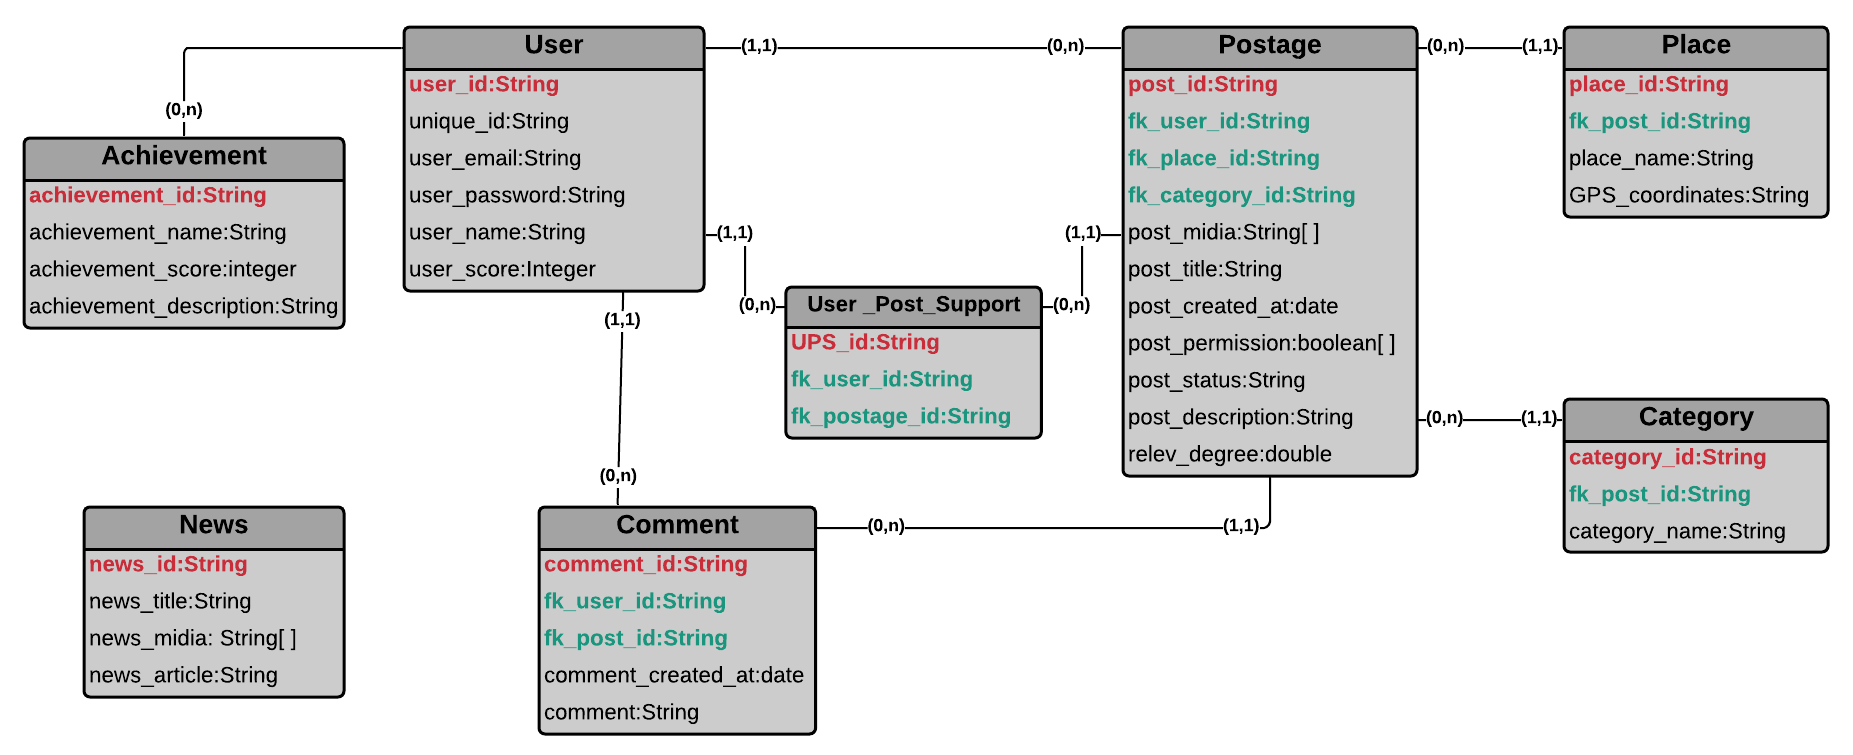
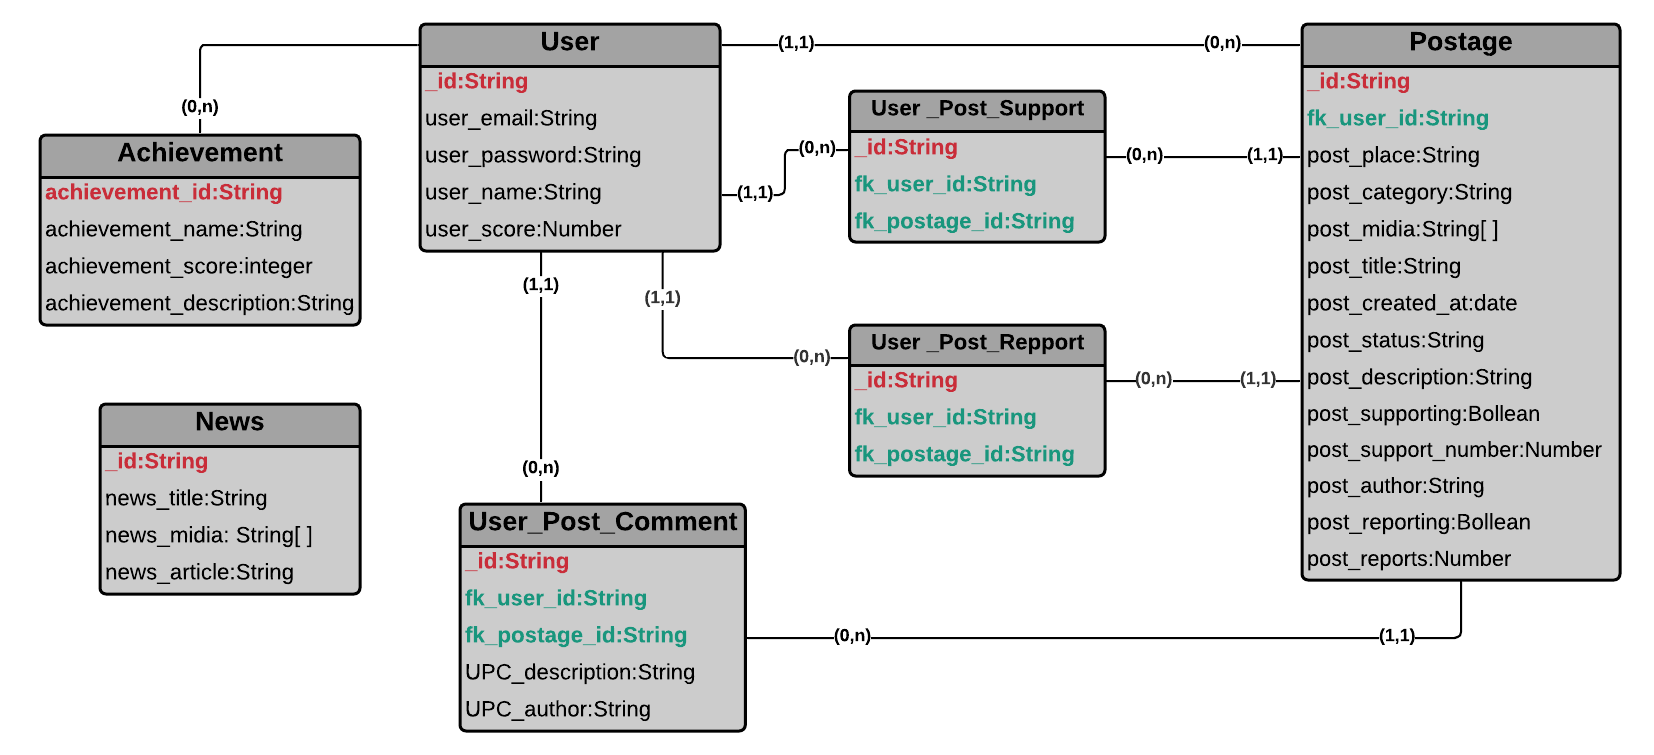
#207 Atualizando documento de arquitetura.

diff --git a/docs/Documento_de_Arquitetura.md b/docs/Documento_de_Arquitetura.md
@@ -15,6 +15,7 @@ Data|Versão|Descrição|Autor
 06/10|1.4| Revisão do documento: padronizaçãos do versionamento, correção das referências e atualização dos tópicos 2.1.1, 2.2.1, 2.3.1 e 4.1. Inclusão do tópico 5 | Daniel Porto e Emily Dias
 09/10|1.5| Inserção de uma descrição melhor sobre a frente VCG | Daniel Porto
 23/10|1.6| Atualização do diagrama de pacotes do front-end | Daniel Porto
+09/12|1.7| Atualização do diagrama de pacotes do back-end e da modelagem do banco de dados | Daniel Porto
 
 ## 1. Introdução
 

diff --git a/_sidebar.md b/_sidebar.md
@@ -1,7 +1,7 @@
 - [**Home**](README.md)
 - [Canvas](/docs/Canvas.md)
 - [Documento de Visão](/docs/Documento_de_Visao.md)
-- [Documento de Arquiteura](/docs/Documento_de_Arquitetura.md)
+- [Documento de Arquitetura](/docs/Documento_de_Arquitetura.md)
 - [Identidade Visual](/docs/Identidade_Visual)
 - [Plano de Riscos](/docs/Plano_riscos.md)
 - [Post Mortem](/docs/Post_Mortem.md)
